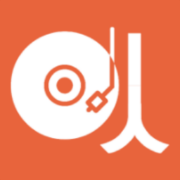
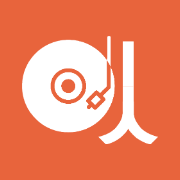
turn잇 로고 자산 교체: 아이콘 여백·고해상도 워드마크·라이트 테마 대응
PR #96 로 들어간 로고를 같은 시안(짧은 ㅅ 버전)의 정리본으로 교체해요. 앱 이름은 Turnit 그대로.

- 아이콘 4종(512/192/maskable/apple-180): 판이 모서리에 잘리지 않게 여백(12%, maskable 20%)을 두고 중앙 배치
- 로그인 워드마크: 241×105 인라인 base64 → 1400×520 PNG 파일 2종.
  다크 테마 흰색(wordmark.png), 라이트 테마 진한 색(wordmark-dark.png)으로 CSS 전환
  → 라이트 테마에서 안 보이던 문제 해결. 판 라벨은 두 버전 모두 브랜드 오렌지
- 서비스워커 캐시 키 v1 → v2, 워드마크 2종 프리캐시

Claude-Session: https://claude.ai/code/session_01RaKXDuWjQRYDcbkM1oTs7b

Changed region(s): [[0.0556, 0.1389, 0.9444, 0.8611]]

diff --git a/index.html b/index.html
@@ -937,7 +937,10 @@ body.state-shared #shared-view{display:block}
 .auth-logo{font-family:'Bricolage Grotesque',sans-serif;font-weight:800;font-size:44px;
   line-height:.95;letter-spacing:-.03em;text-align:center}
 .auth-logo .em{color:var(--accent)}
-.auth-wordmark{display:block;height:78px;margin:0 auto;max-width:82%;object-fit:contain}
+.auth-wordmark{display:block;width:240px;height:auto;margin:0 auto;max-width:82%}
+.auth-wordmark.wm-light{display:none}
+html[data-theme="light"] .auth-wordmark.wm-dark{display:none}
+html[data-theme="light"] .auth-wordmark.wm-light{display:block}
 .auth-tagline{text-align:center;color:var(--muted);font-size:13px;margin-top:12px;font-weight:500}
 .auth-tabs{display:flex;gap:6px;background:var(--bg2);border:1px solid var(--line);
   border-radius:14px;padding:4px;margin:22px 0 18px}
@@ -993,7 +996,7 @@ body.state-shared #shared-view{display:block}
 
 <div id="auth-screen">
   <div class="auth-card">
[1 lines of base64/hex data omitted]
+    <div class="auth-logo"><img class="auth-wordmark wm-dark" src="icons/wordmark.png" alt="turn잇 — Turnit" width="1400" height="520"><img class="auth-wordmark wm-light" src="icons/wordmark-dark.png" alt="turn잇 — Turnit" width="1400" height="520"></div>
     <div class="auth-tagline">내 바이닐 컬렉션을 어디서나</div>
     <div class="auth-tabs">
       <button class="auth-tab on" data-mode="login">로그인</button>

diff --git a/sw.js b/sw.js
@@ -2,13 +2,15 @@
    - 앱 셸(아이콘/매니페스트)은 캐시 우선으로 빠르게
    - 화면(HTML/네비게이션)은 네트워크 우선 → 웹 배포 시 항상 최신 버전 표시
    - Firebase/gstatic 등 외부(cross-origin) 요청은 가로채지 않음 */
-const CACHE = 'lp-archive-v1';
+const CACHE = 'lp-archive-v2';   // 아이콘·워드마크 교체 → 캐시 갱신
 const SHELL = [
   './manifest.webmanifest',
   './icons/icon-192.png',
   './icons/icon-512.png',
   './icons/maskable-512.png',
-  './icons/apple-180.png'
+  './icons/apple-180.png',
+  './icons/wordmark.png',
+  './icons/wordmark-dark.png'
 ];
 
 self.addEventListener('install', (e) => {
